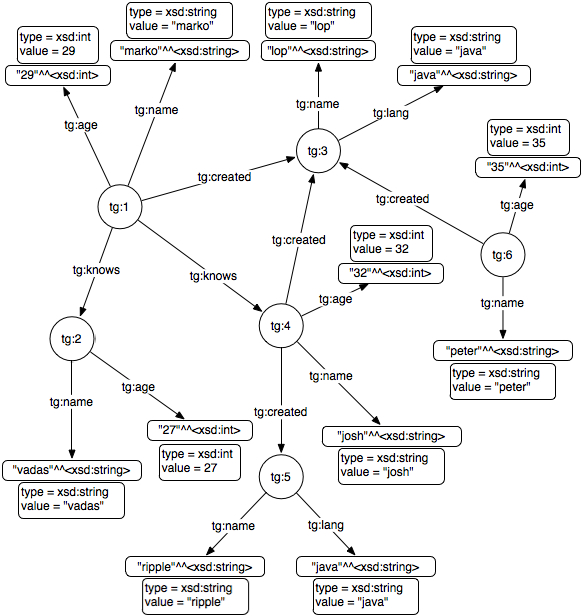
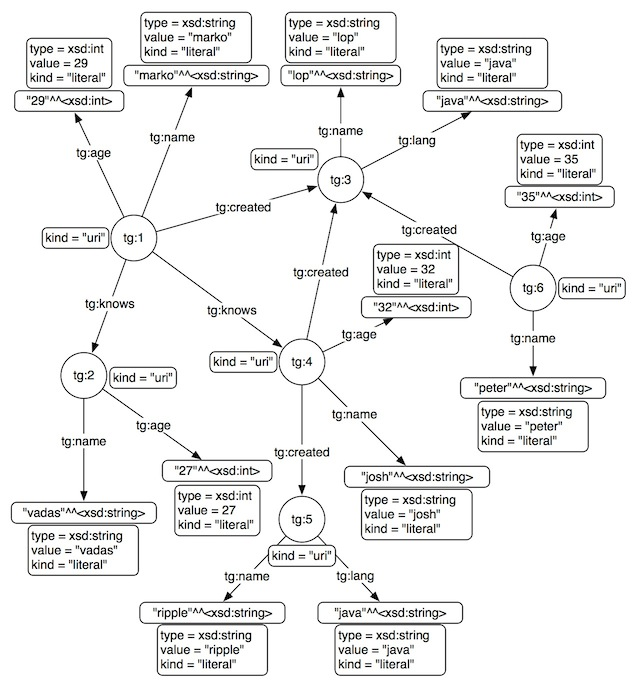
updated documentation images for the RDF documentation--new support for @kind. Added more intense test cases for DynamicPredicateFilterPipe.

Changed region(s): [[0.0, 0.0, 1.0, 1.0]]

diff --git a/src/main/java/com/tinkerpop/gremlin/compiler/pipes/DynamicPredicateFilterPipe.java b/src/main/java/com/tinkerpop/gremlin/compiler/pipes/DynamicPredicateFilterPipe.java
@@ -69,7 +69,7 @@ public class DynamicPredicateFilterPipe<S> extends AbstractComparisonFilterPipe<
                 return ((Map) point).get(side.getValue());
             else if (point instanceof Element) {
                 String property = side.getValue().toString();
-                if (property.equals(Tokens.LABEL))
+                if (property.equals(Tokens.LABEL) && point instanceof Edge)
                     return ((Edge) point).getLabel();
                 else if (property.equals(Tokens.ID))
                     return ((Element) point).getId();

diff --git a/src/test/java/com/tinkerpop/gremlin/GremlinScriptEngineTest.java b/src/test/java/com/tinkerpop/gremlin/GremlinScriptEngineTest.java
@@ -54,7 +54,7 @@ public class GremlinScriptEngineTest extends BaseTest {
         assertEquals(results.get(0), graph.getVertex(4));
         results = (List) engine.eval("./outE/inV[@id=g:string(4)]");
         assertEquals(results.get(0), graph.getVertex(4));
-        results = (List) engine.eval("./outE[@label=g:string('knows')]/inV[@id='4']");
+        results = (List) engine.eval("./outE[@label=g:string('knows') or @label=g:string(g:string('created'))]/inV[@id='4' and @name=$name]");
         assertEquals(results.get(0), graph.getVertex(4));
     }
 
